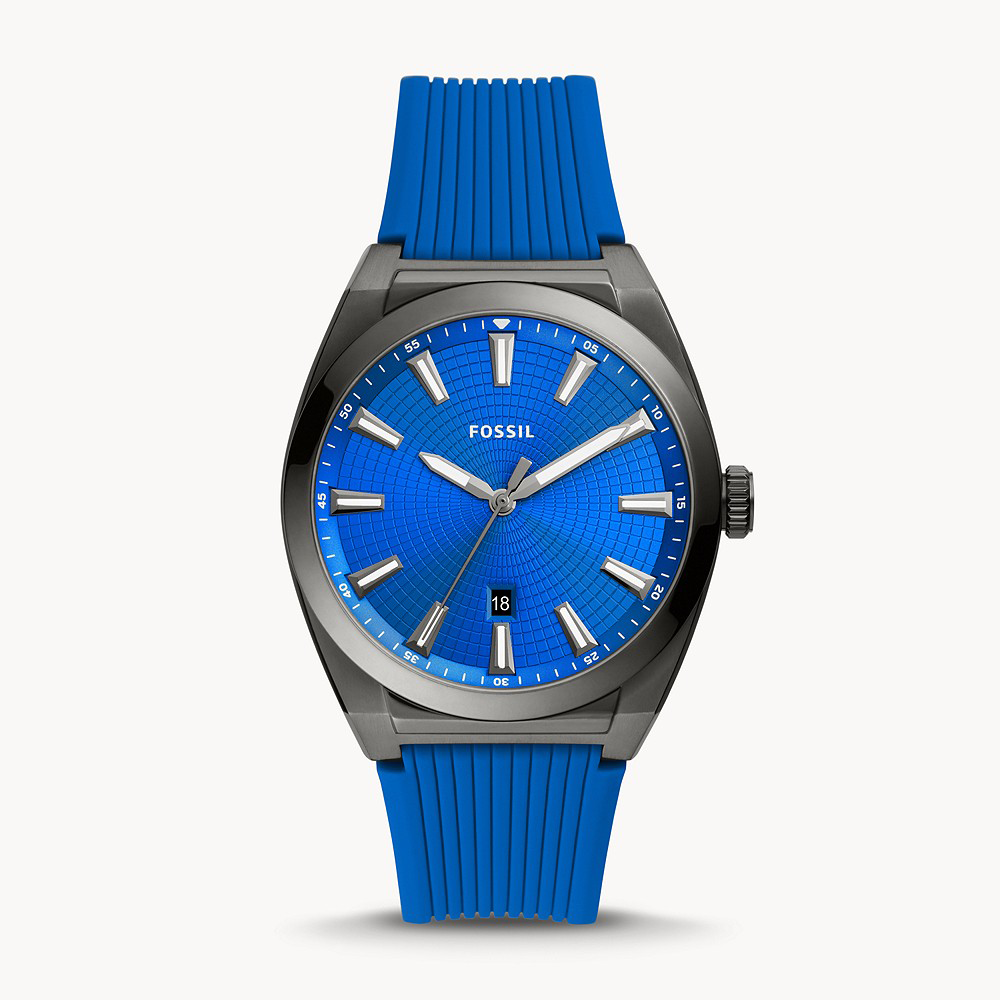
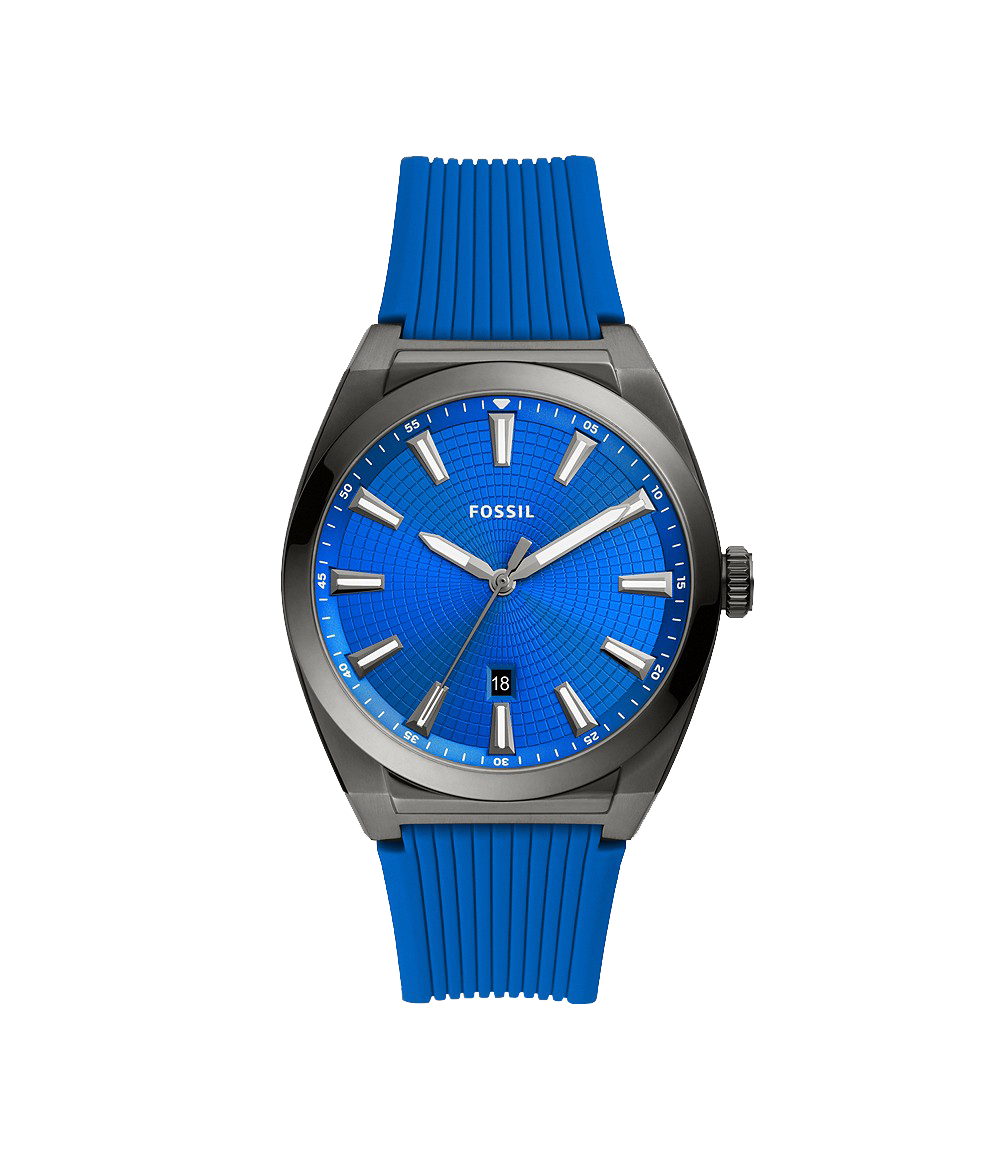
fixes to product page

Changed region(s): [[0.279, 0.062, 0.775, 0.961]]

diff --git a/productpage.css b/productpage.css
@@ -22,7 +22,7 @@ main {
 }
 
 .productimage {
-  grid-area: 2 / 2 / 6 / 5;
+  grid-area: 1 / 2 / 8 / 5;
   align-self: center;
   justify-self: center;
 }
@@ -31,7 +31,7 @@ main {
   grid-area: 1 / 5 / 2 / 9;
   font-size: 2vw;
   font-weight: bold;
-  margin-top: 3vh;
+  margin-top: 5vh;
 }
 
 .productprice {
@@ -58,14 +58,13 @@ main {
 }
 
 .similarproducts {
-  grid-area: 6 / 3 / 7 / 7;
+  grid-area: 8 / 3 / 9 / 7;
   font-size: 1.5vw;
-  margin-top: 4vw;
   justify-self: center;
 }
 
 .similarimages {
-  grid-area: 7 / 1 / 10 / 9;
+  grid-area: 9 / 1 / 14 / 9;
   display: flex;
   justify-content: center;
   column-gap: 2vw;
